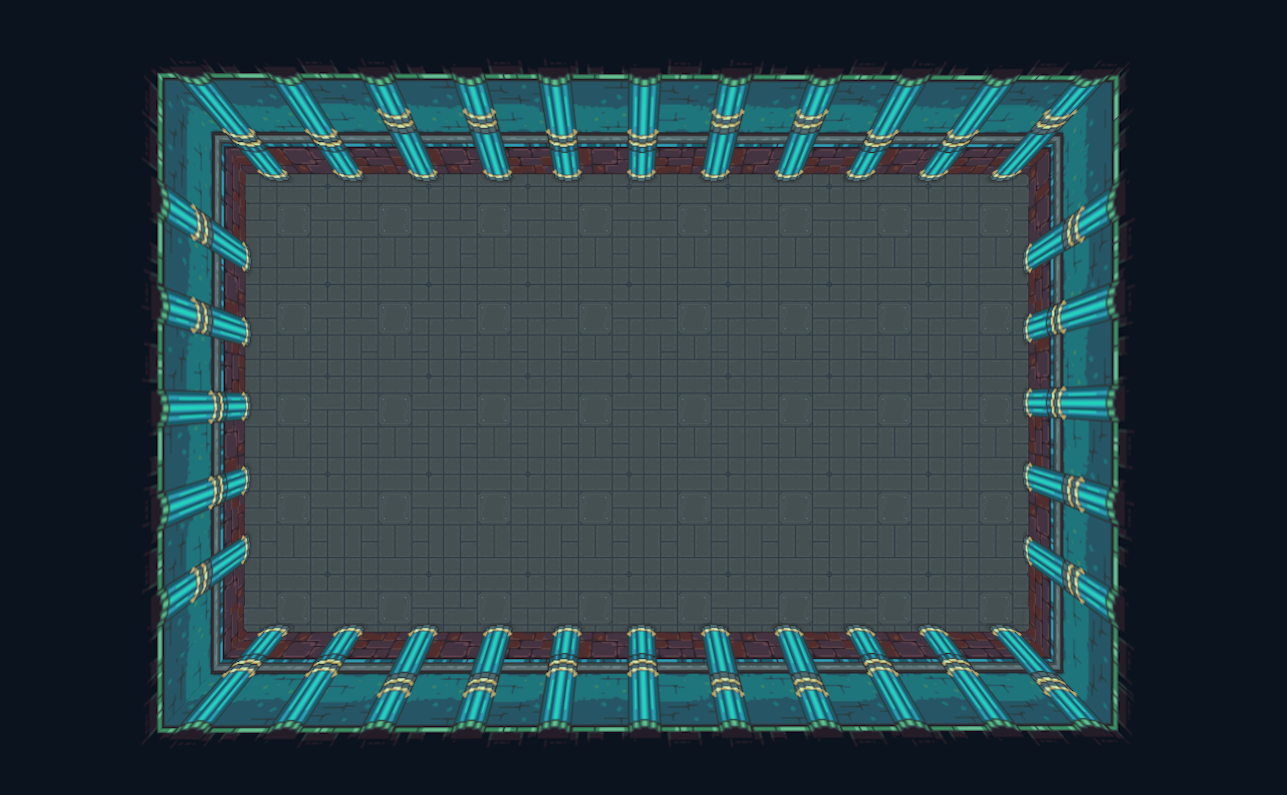
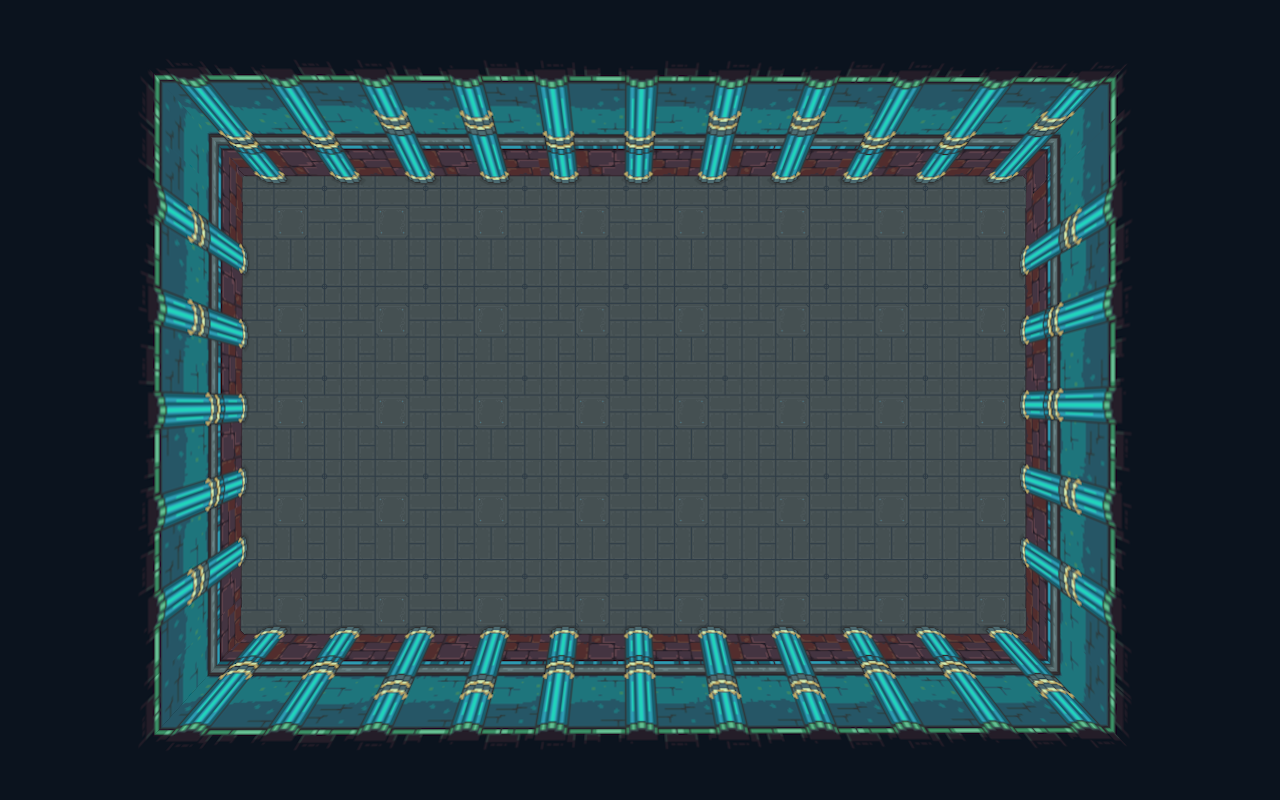
make windows spawn in the center

Changed region(s): [[0.0938, 0.0906, 0.875, 0.9358]]

diff --git a/src/gamestructure/game/GameViewImpl.java b/src/gamestructure/game/GameViewImpl.java
@@ -16,22 +16,23 @@ import javax.swing.JPanel;
 
 public class GameViewImpl implements GameView {
 
-    private static final long serialVersionUID = 1L;
+    private final Dimension screen = Toolkit.getDefaultToolkit().getScreenSize();
     private final JFrame frame;
     private static double WIDTH_RATIO = 0.67; 
-    private static double HEIGHT_RATIO = 0.736; 
+    private static double HEIGHT_RATIO = 0.74; 
+    private static double ASPECT_RATIO = 1.6;
 
     public GameViewImpl() {
         this.frame = new JFrame();
         this.frame.setResizable(false);
         this.frame.setTitle("MazeDungeon");
-        final Dimension screen = Toolkit.getDefaultToolkit().getScreenSize();
         this.frame.setDefaultCloseOperation(JFrame.EXIT_ON_CLOSE);
         final JPanel backgroundPanel = new JPanel(new GridBagLayout());
         this.frame.setContentPane(backgroundPanel);
         try {
             final int height = (int) (screen.getHeight() * HEIGHT_RATIO);
             final int width = (int) (screen.getWidth() * WIDTH_RATIO);
+            //final int width = (int) (height * ASPECT_RATIO);
             final BufferedImage room = ImageIO.read(new File("resources//images//Room//room.png"));
             final JLabel picLabel = new JLabel(new ImageIcon(room.getScaledInstance(width, height, Image.SCALE_SMOOTH)));
             backgroundPanel.add(picLabel);
@@ -44,6 +45,8 @@ public class GameViewImpl implements GameView {
     @Override
     public void show() {
         this.frame.pack();
+        this.frame.setLocation(screen.width / 2 - this.frame.getSize().width / 2, 
+                               screen.height / 2 - this.frame.getSize().height / 2);
         this.frame.setVisible(true);
     }
 

diff --git a/src/gamestructure/mainmenu/MainMenuViewImpl.java b/src/gamestructure/mainmenu/MainMenuViewImpl.java
@@ -16,13 +16,13 @@ import javax.swing.JPanel;
 public class MainMenuViewImpl implements MainMenuView {
 
     private final JFrame frame = new JFrame();
+    private final Dimension screen = Toolkit.getDefaultToolkit().getScreenSize();
     private static double WIDTH_RATIO = 0.67; 
     private static double HEIGHT_RATIO = 0.736;
 
     public MainMenuViewImpl() {
         BufferedImage img;
         JLabel label;
-        final Dimension screen = Toolkit.getDefaultToolkit().getScreenSize();
         this.frame.setDefaultCloseOperation(JFrame.EXIT_ON_CLOSE);
         this.frame.setResizable(false);
         this.frame.setSize(new Dimension((int) (screen.getWidth() * WIDTH_RATIO), 
@@ -44,6 +44,8 @@ public class MainMenuViewImpl implements MainMenuView {
      */
     public void show() {
         this.frame.pack();
+        this.frame.setLocation(screen.width / 2 - this.frame.getSize().width / 2, 
+                               screen.height / 2 - this.frame.getSize().height / 2);
         this.frame.setVisible(true);
     }
 
